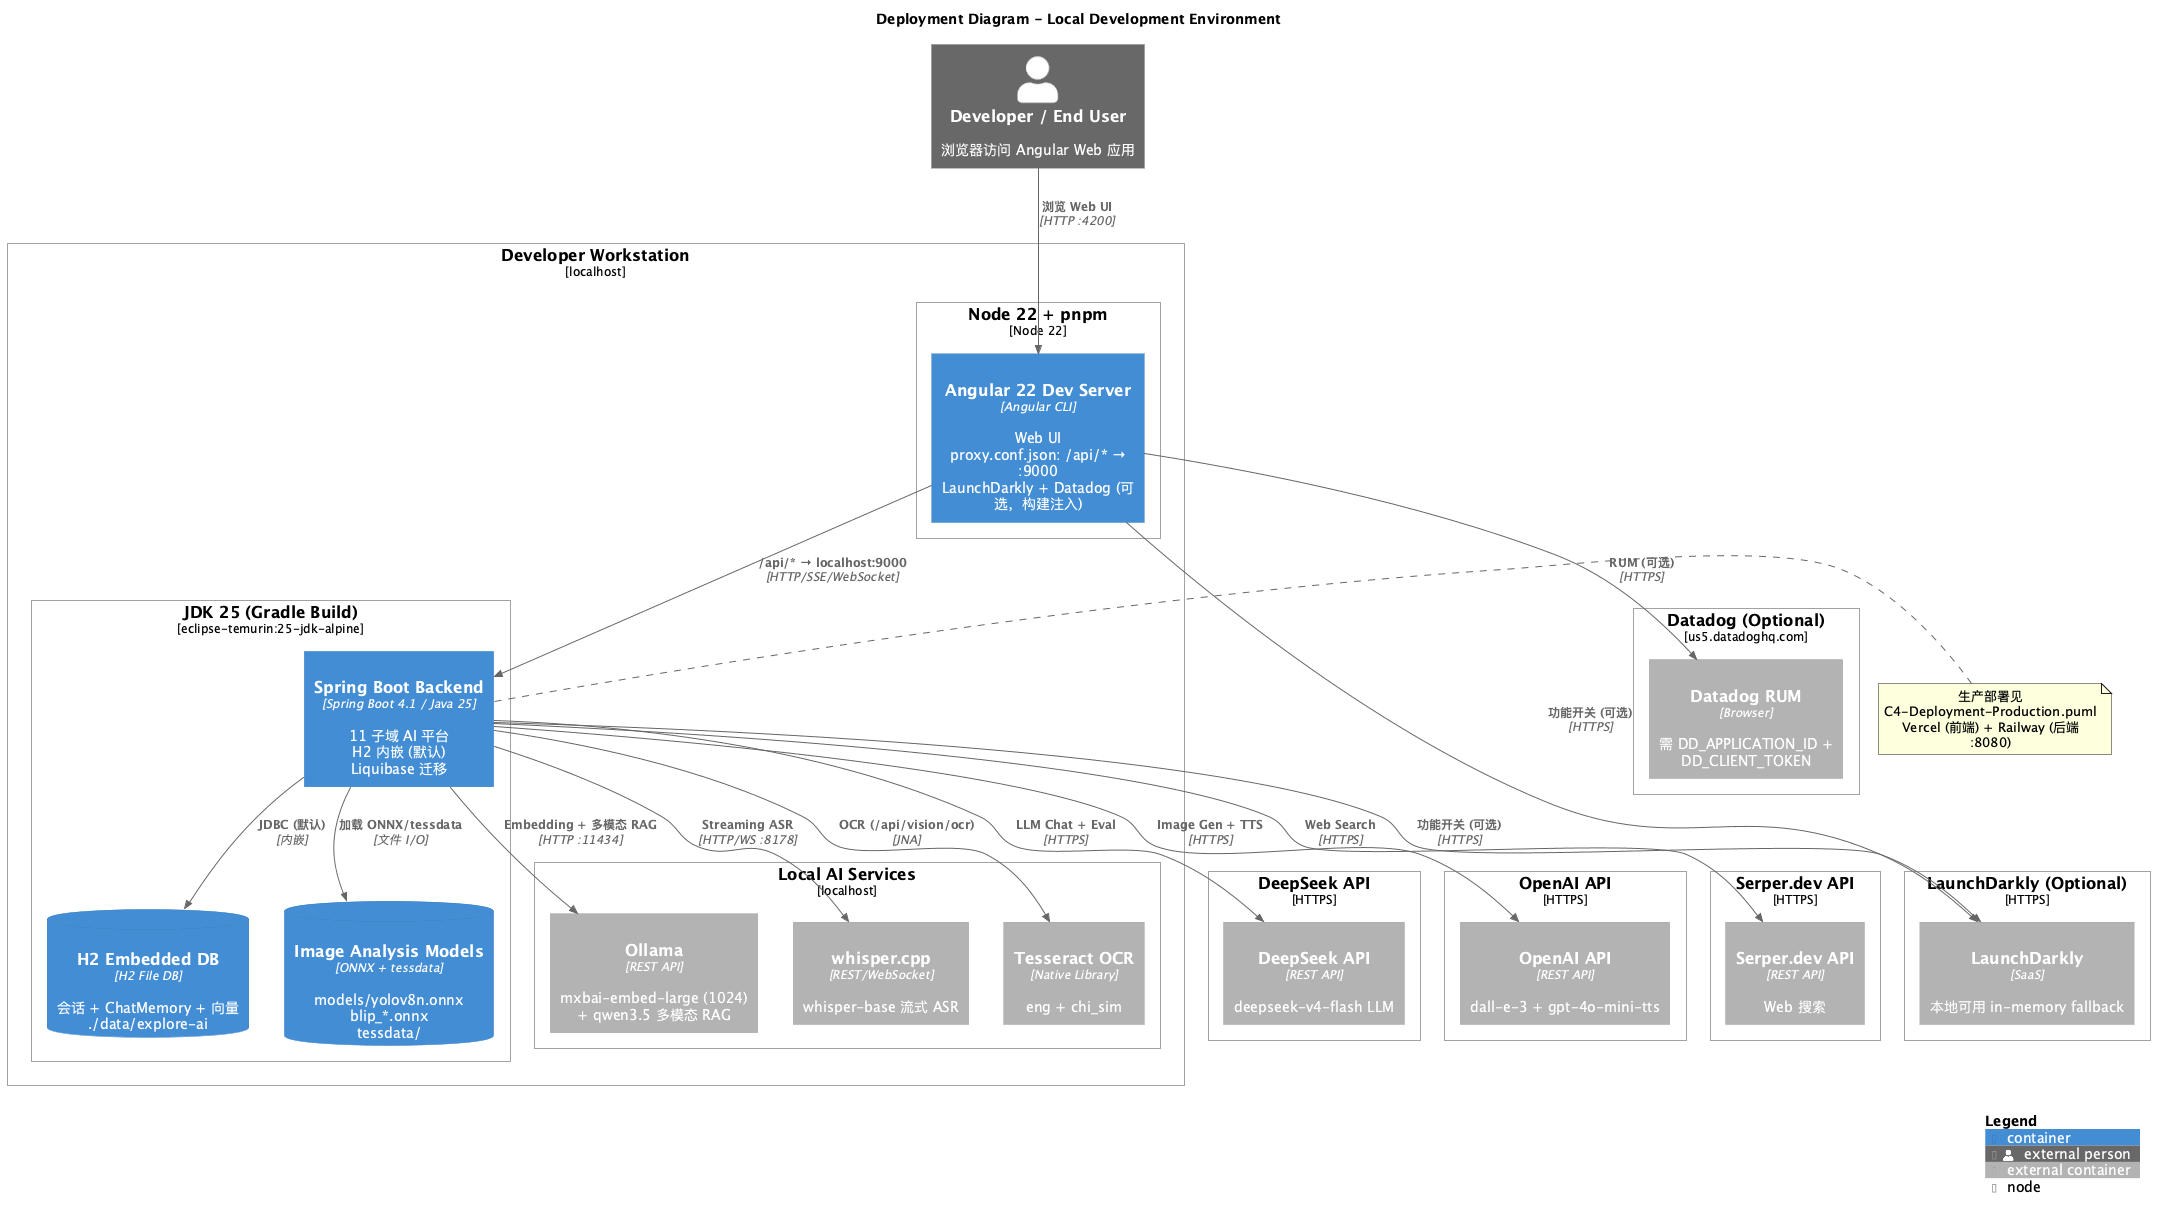
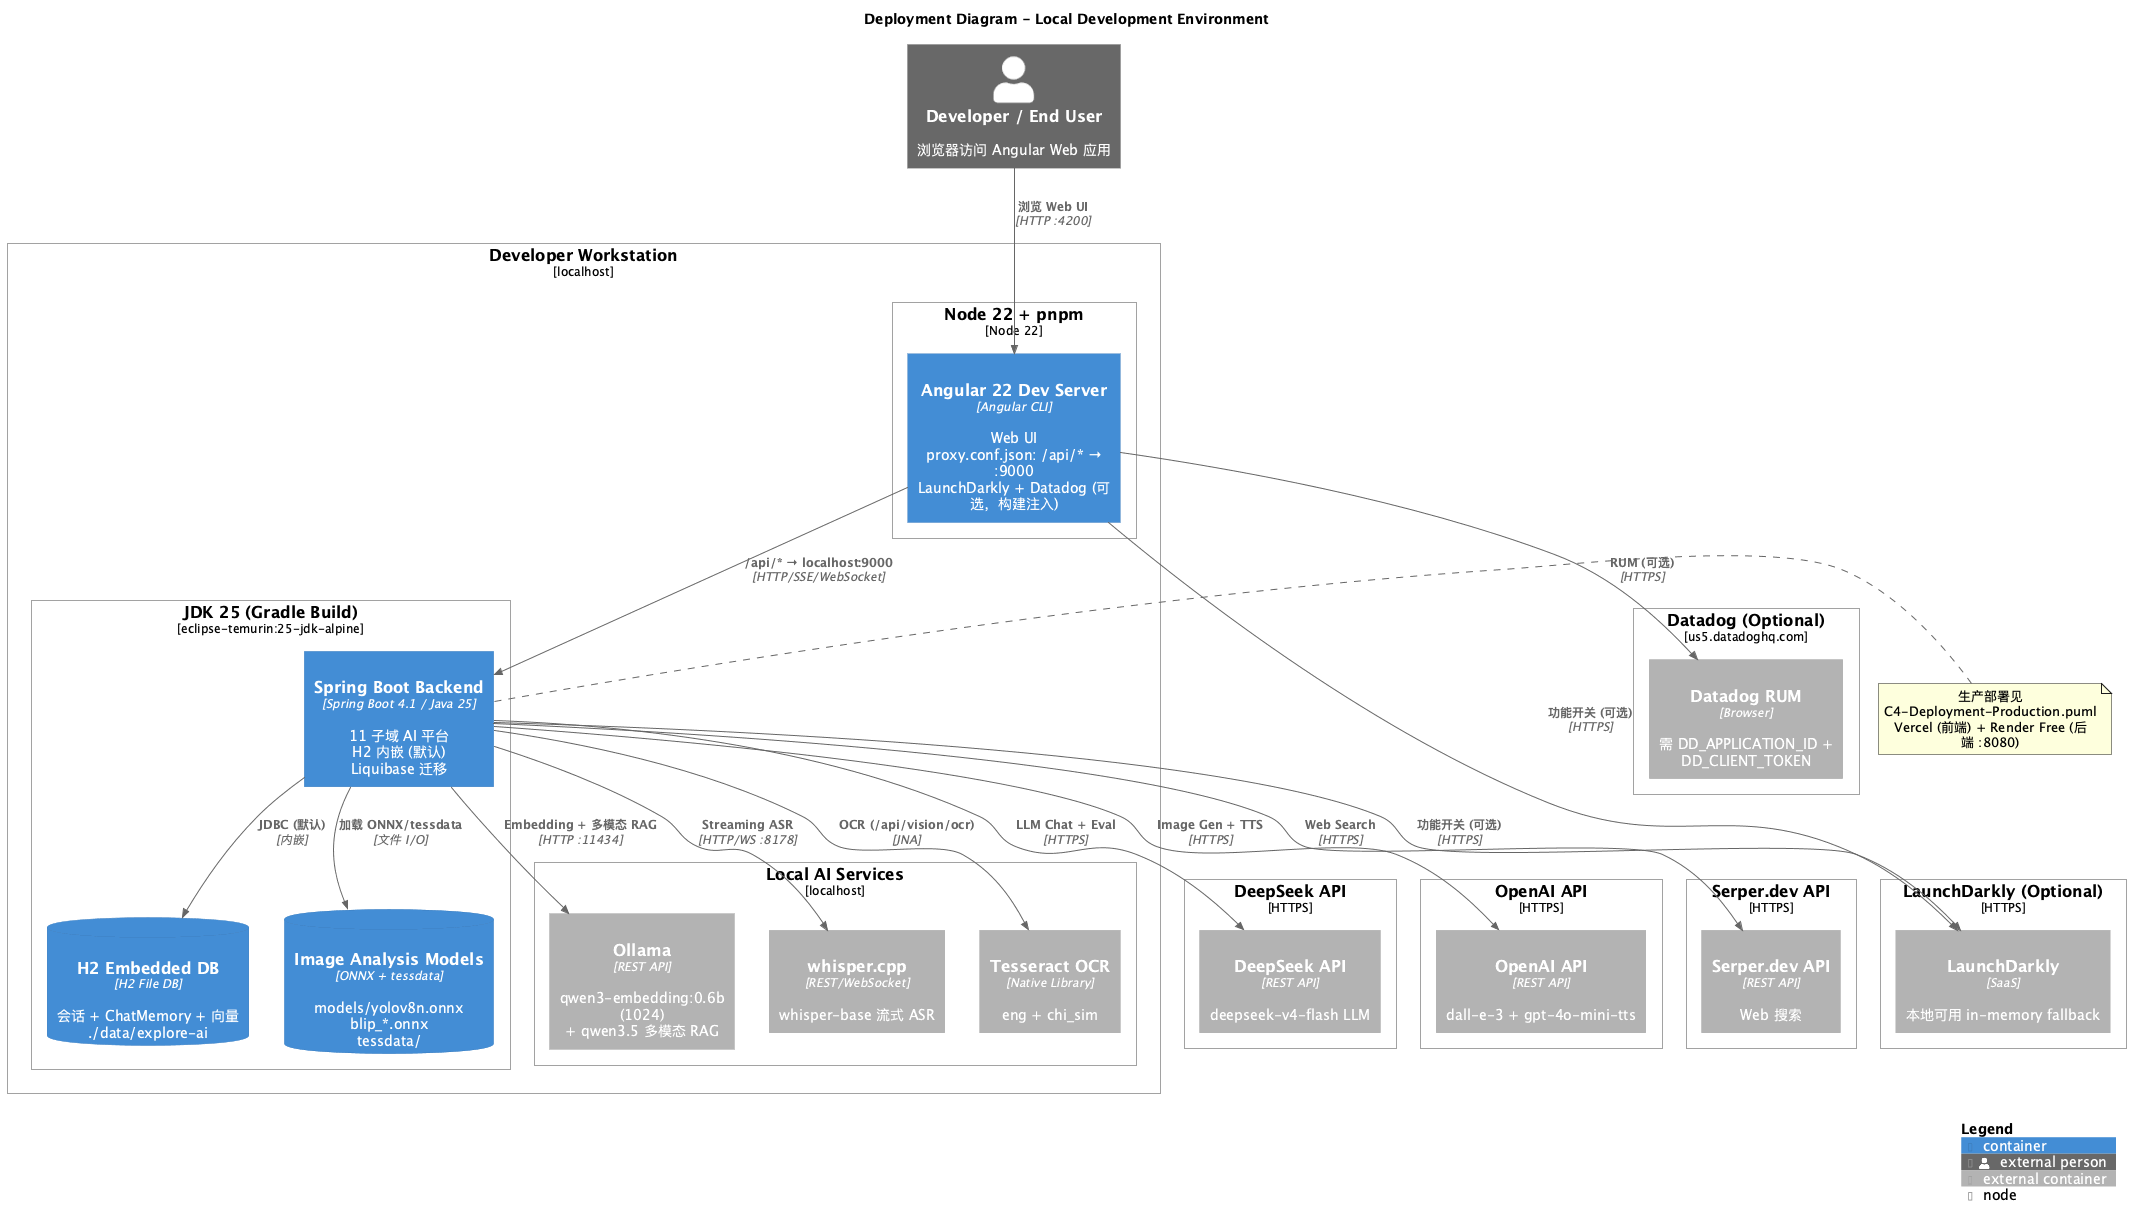
feat: default local RAG embeddings to Qwen3 Embedding (#354)
Switch the Ollama embedding default from mxbai-embed-large to
qwen3-embedding:0.6b (1024-d) so local retrieval aligns with the
existing Qwen multimodal stack and multilingual quality.

Jira: https://felixzhu.atlassian.net/browse/AI-320

References:
- https://qwenlm.github.io/blog/qwen3-embedding/
- https://huggingface.co/Qwen/Qwen3-Embedding-0.6B
- https://ollama.com/library/qwen3-embedding
- https://arxiv.org/abs/2506.05176
- https://github.com/QwenLM/Qwen3-Embedding

diff --git a/ai/src/main/java/com/ai/rag/infrastructure/llm/OllamaEmbeddingAdapter.java b/ai/src/main/java/com/ai/rag/infrastructure/llm/OllamaEmbeddingAdapter.java
@@ -14,7 +14,7 @@ import java.util.List;
 
 /**
  * Ollama embedding adapter using Spring AI.
- * Generates embeddings using local Ollama models (e.g., nomic-embed-text).
+ * Generates embeddings using local Ollama models (default: qwen3-embedding:0.6b).
  */
 @Component
 @ConditionalOnProperty(name = "spring.ai.ollama.embedding.enabled", havingValue = "true", matchIfMissing = true)
@@ -27,7 +27,7 @@ public class OllamaEmbeddingAdapter implements TextEmbeddingRepository {
 
     public OllamaEmbeddingAdapter(
             EmbeddingModel embeddingModel,
-            @Value("${spring.ai.ollama.embedding.dimensions:768}") int dimensions) {
+            @Value("${spring.ai.ollama.embedding.dimensions:1024}") int dimensions) {
         this.embeddingModel = embeddingModel;
         this.dimensions = dimensions;
     }

diff --git a/ai/src/test/java/com/ai/rag/infrastructure/llm/OllamaEmbeddingAdapterTest.java b/ai/src/test/java/com/ai/rag/infrastructure/llm/OllamaEmbeddingAdapterTest.java
@@ -30,7 +30,7 @@ class OllamaEmbeddingAdapterTest {
 
     @BeforeEach
     void setUp() {
-        adapter = new OllamaEmbeddingAdapter(embeddingModel, 768);
+        adapter = new OllamaEmbeddingAdapter(embeddingModel, 1024);
     }
 
     @Nested
@@ -142,7 +142,7 @@ class OllamaEmbeddingAdapterTest {
         @Test
         @DisplayName("should return configured dimensions")
         void shouldReturnConfiguredDimensions() {
-            assertThat(adapter.getDimensions()).isEqualTo(768);
+            assertThat(adapter.getDimensions()).isEqualTo(1024);
         }
     }
 }

diff --git a/ai/src/test/java/com/ai/rag/infrastructure/config/OllamaConfigTest.java b/ai/src/test/java/com/ai/rag/infrastructure/config/OllamaConfigTest.java
@@ -16,7 +16,7 @@ class OllamaConfigTest {
     void should_create_embedding_and_vision_chat_models() {
         OllamaConfig config = new OllamaConfig();
         ReflectionTestUtils.setField(config, "baseUrl", "http://localhost:11434");
-        ReflectionTestUtils.setField(config, "embeddingModelName", "nomic-embed-text");
+        ReflectionTestUtils.setField(config, "embeddingModelName", "qwen3-embedding:0.6b");
         ReflectionTestUtils.setField(config, "visionModelName", "qwen3.5:35b");
 
         EmbeddingModel embeddingModel = config.embeddingModel();

diff --git a/ai/src/main/java/com/ai/rag/infrastructure/config/OllamaConfig.java b/ai/src/main/java/com/ai/rag/infrastructure/config/OllamaConfig.java
@@ -21,7 +21,7 @@ public class OllamaConfig {
     @Value("${spring.ai.ollama.base-url:http://localhost:11434}")
     private String baseUrl;
 
-    @Value("${spring.ai.ollama.embedding.model:nomic-embed-text}")
+    @Value("${spring.ai.ollama.embedding.model:qwen3-embedding:0.6b}")
     private String embeddingModelName;
 
     @Value("${spring.ai.ollama.chat.model:qwen3.5:35b}")

diff --git a/ai/docs/Glossary.md b/ai/docs/Glossary.md
@@ -201,7 +201,7 @@ flowchart TB
 | Document Chunk           | 文档分块     | Smallest retrieval unit after document splitting    | Entity               | `DocumentChunk`                           | Includes embedding vector                                           |
 | Raw Document             | 原始文档     | Normalized document view before ETL processing      | Value Object         | `RawDocument`                             | content + metadata + source                                         |
 | Chunking                 | 分块       | Process of splitting document text into chunks      | Application Behavior | `ChunkingDocumentTransformer`             | Spring AI `TokenTextSplitter`; configurable token size              |
-| Embedding                | 嵌入向量     | Vector representation of text for similarity search | Technical            | `EmbeddingAdapter`                        | Ollama mxbai-embed-large                                            |
+| Embedding                | 嵌入向量     | Vector representation of text for similarity search | Technical            | `OllamaEmbeddingAdapter`                  | Ollama `qwen3-embedding:0.6b` (1024-d)                              |
 | Retrieval                | 检索       | Find relevant chunks via vector similarity          | Application Behavior | `DocumentSearchService`                   | topK + scoreThreshold; RAG chat uses Spring AI `VectorStore` |
 | Spring AI Vector Store   | Spring AI 向量库 | Spring AI SPI over H2 cosine search for Modular RAG | Infrastructure       | `H2SpringAiVectorStore`                   | Used by `VectorStoreDocumentRetriever`                       |
 | Source Document          | 来源文档     | Retrieved chunk with similarity score               | Value Object         | `SourceDocument`                          | Domain field `text`; SSE JSON uses `"text"` via `SourceDocumentDto` |

diff --git a/ai/docs/developer/QUICKSTART.md b/ai/docs/developer/QUICKSTART.md
@@ -302,11 +302,26 @@ java --version  # Must be 25+
 | ------------------- | ---------------------------------------------------- | ------------------------------------- |
 | `DEEPSEEK_API_KEY`  | -                                                    | Your DeepSeek API key (required)      |
 | `DEEPSEEK_BASE_URL` | [https://api.deepseek.com](https://api.deepseek.com) | DeepSeek API endpoint                 |
+| `OLLAMA_EMBEDDING_MODEL` | `qwen3-embedding:0.6b`                          | Local RAG embedding (1024-d via Ollama) |
 | `IMAGE_PROVIDER`    | `ollama`                                             | Image provider: `ollama` or `openai`  |
 | `IMAGE_MODEL`       | `x/flux2-klein`                                      | Ollama/OpenAI image model name        |
 | `IMAGE_BASE_URL`    | `http://localhost:11434/v1`                          | Image API base URL                    |
 | `OPENAI_API_KEY`    | -                                                    | Required when `IMAGE_PROVIDER=openai` |
 
+
+### RAG Embedding (Ollama Qwen3) | RAG 嵌入（Ollama Qwen3）
+
+Document QA uses local **Qwen3 Embedding** by default (aligned with the Qwen multimodal stack).
+
+```bash
+# 1. Pull the embedding model
+ollama pull qwen3-embedding:0.6b
+
+# 2. Ensure Ollama is running on http://localhost:11434
+# Optional larger models: qwen3-embedding:4b / :8b (update spring.ai.ollama.embedding.dimensions)
+```
+
+After changing the embedding model, **re-upload / re-ingest documents** — existing vectors from other models are incompatible.
 
 ### Image Generation (Free Ollama) | 图像生成（免费 Ollama）
 

diff --git a/ai/README.md b/ai/README.md
@@ -42,7 +42,7 @@ Demo / learning platform for conversational AI built with **Spring AI** and **An
 | Backend | Java 25, Spring Boot 4.1, Spring AI 2.0 |
 | Frontend | Angular 22, TypeScript, pnpm |
 | Data | H2 (embedded) + Liquibase |
-| Local AI | Ollama (embed / multimodal), whisper.cpp, ONNX models |
+| Local AI | Ollama (`qwen3-embedding:0.6b` / multimodal), whisper.cpp, ONNX models |
 
 Architecture follows hexagonal-style layers: `web → application → domain ← infrastructure`.
 
@@ -55,7 +55,7 @@ Architecture follows hexagonal-style layers: `web → application → domain ←
 | pnpm | 8+ |
 | Git | latest |
 
-Optional: [Ollama](https://ollama.com/), [Tesseract](https://github.com/tesseract-ocr/tesseract), whisper.cpp — only if you use the matching features.
+Optional: [Ollama](https://ollama.com/) (`ollama pull qwen3-embedding:0.6b` for RAG; re-ingest documents after changing embedding models), [Tesseract](https://github.com/tesseract-ocr/tesseract), whisper.cpp — only if you use the matching features.
 
 ## Getting Started
 

diff --git a/ai/docs/developer/c4-model/README.md b/ai/docs/developer/c4-model/README.md
@@ -209,7 +209,7 @@ Browser → Vercel (Angular static) → Render Free explore-ai (:8080 + H2 ephem
 | 用途 | 模型 | 维度/说明 |
 | --- | --- | --- |
 | LLM Chat / Agent | deepseek-v4-flash | DeepSeek API |
-| Embedding | mxbai-embed-large | 1024 维 (Ollama, local) |
+| Embedding | qwen3-embedding:0.6b | 1024 维 (Ollama, local Qwen3 Embedding) |
 | Vision Chat (RAG) | qwen3.5 | Ollama 多模态对话 (local) |
 | Caption | BLIP base ONNX | ONNX Runtime 本地 |
 | Detect | YOLOv8n ONNX | COCO 80 类 |

diff --git a/ai/.cursor/skills/spring-ai/reference/embeddings.md b/ai/.cursor/skills/spring-ai/reference/embeddings.md
@@ -327,7 +327,8 @@ spring:
 | Model | Dimensions | Description |
 |-------|------------|-------------|
 | `nomic-embed-text` | 768 | High-quality general-purpose embeddings |
-| `mxbai-embed-large` | 1024 | Maximum performance embeddings |
+| `qwen3-embedding:0.6b` | 1024 | Qwen3 Embedding (default local) |
+| `qwen3-embedding:4b` / `:8b` | 2560 / up to 4096 | Larger Qwen3 Embedding variants |
 | `all-minilm` | 384 | Lightweight, fast embeddings |
 
 **Usage:**
